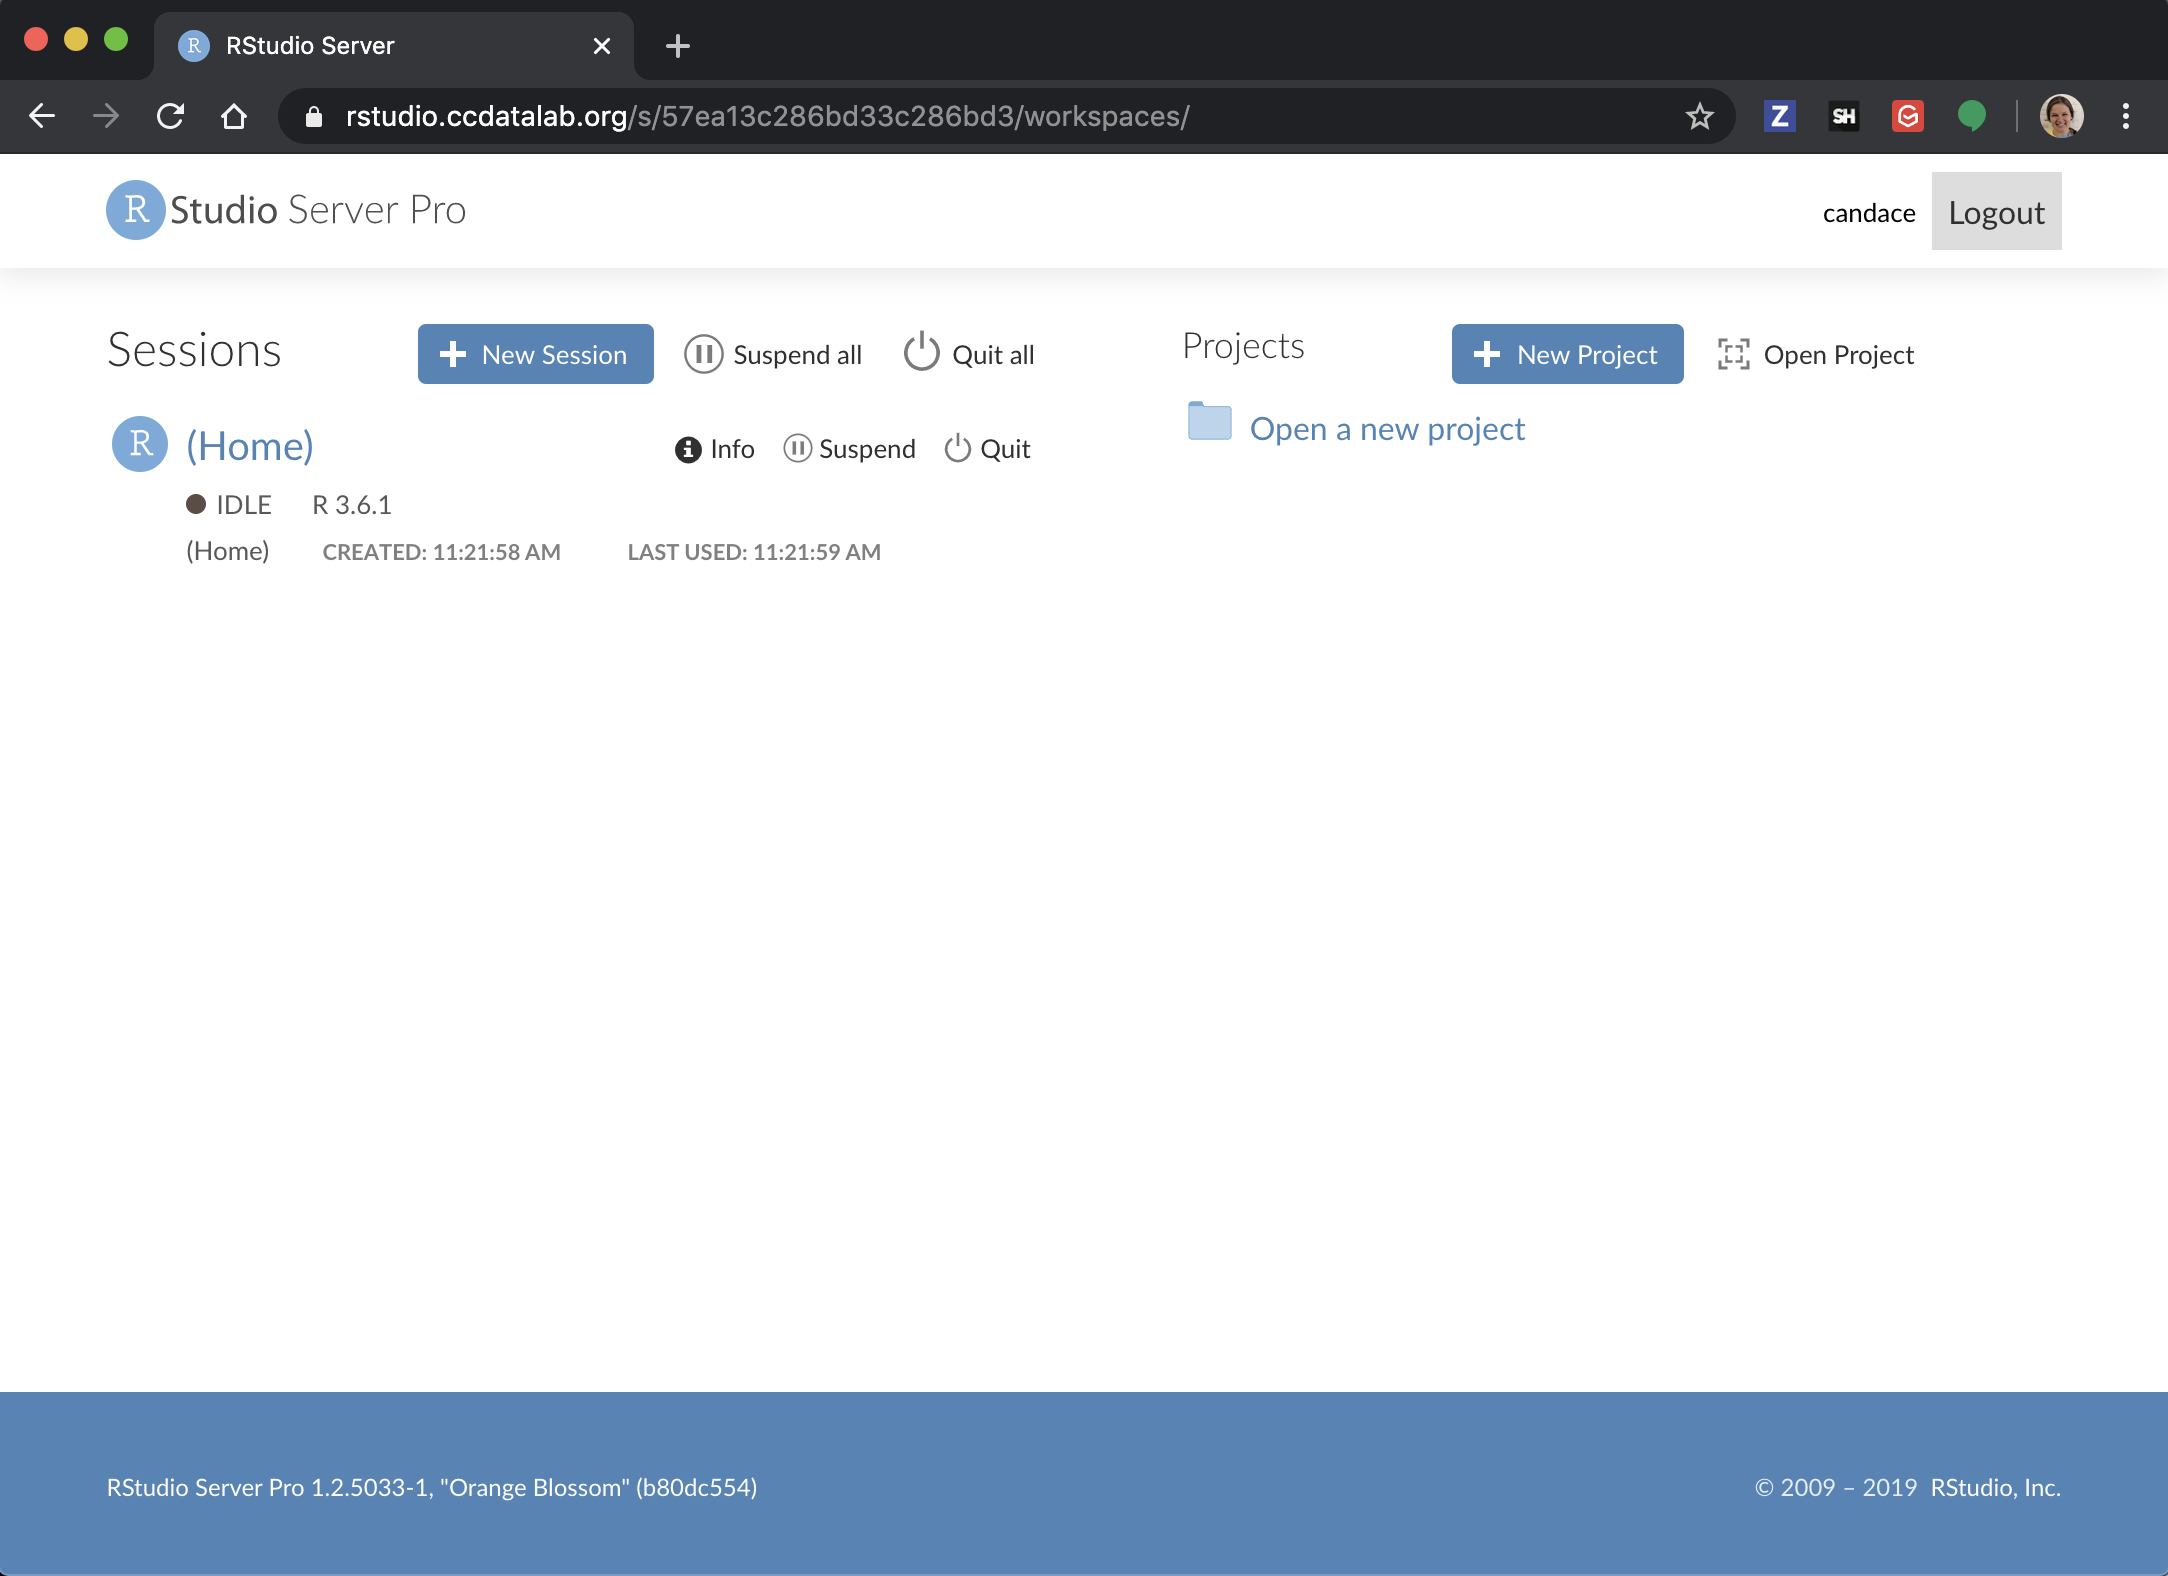
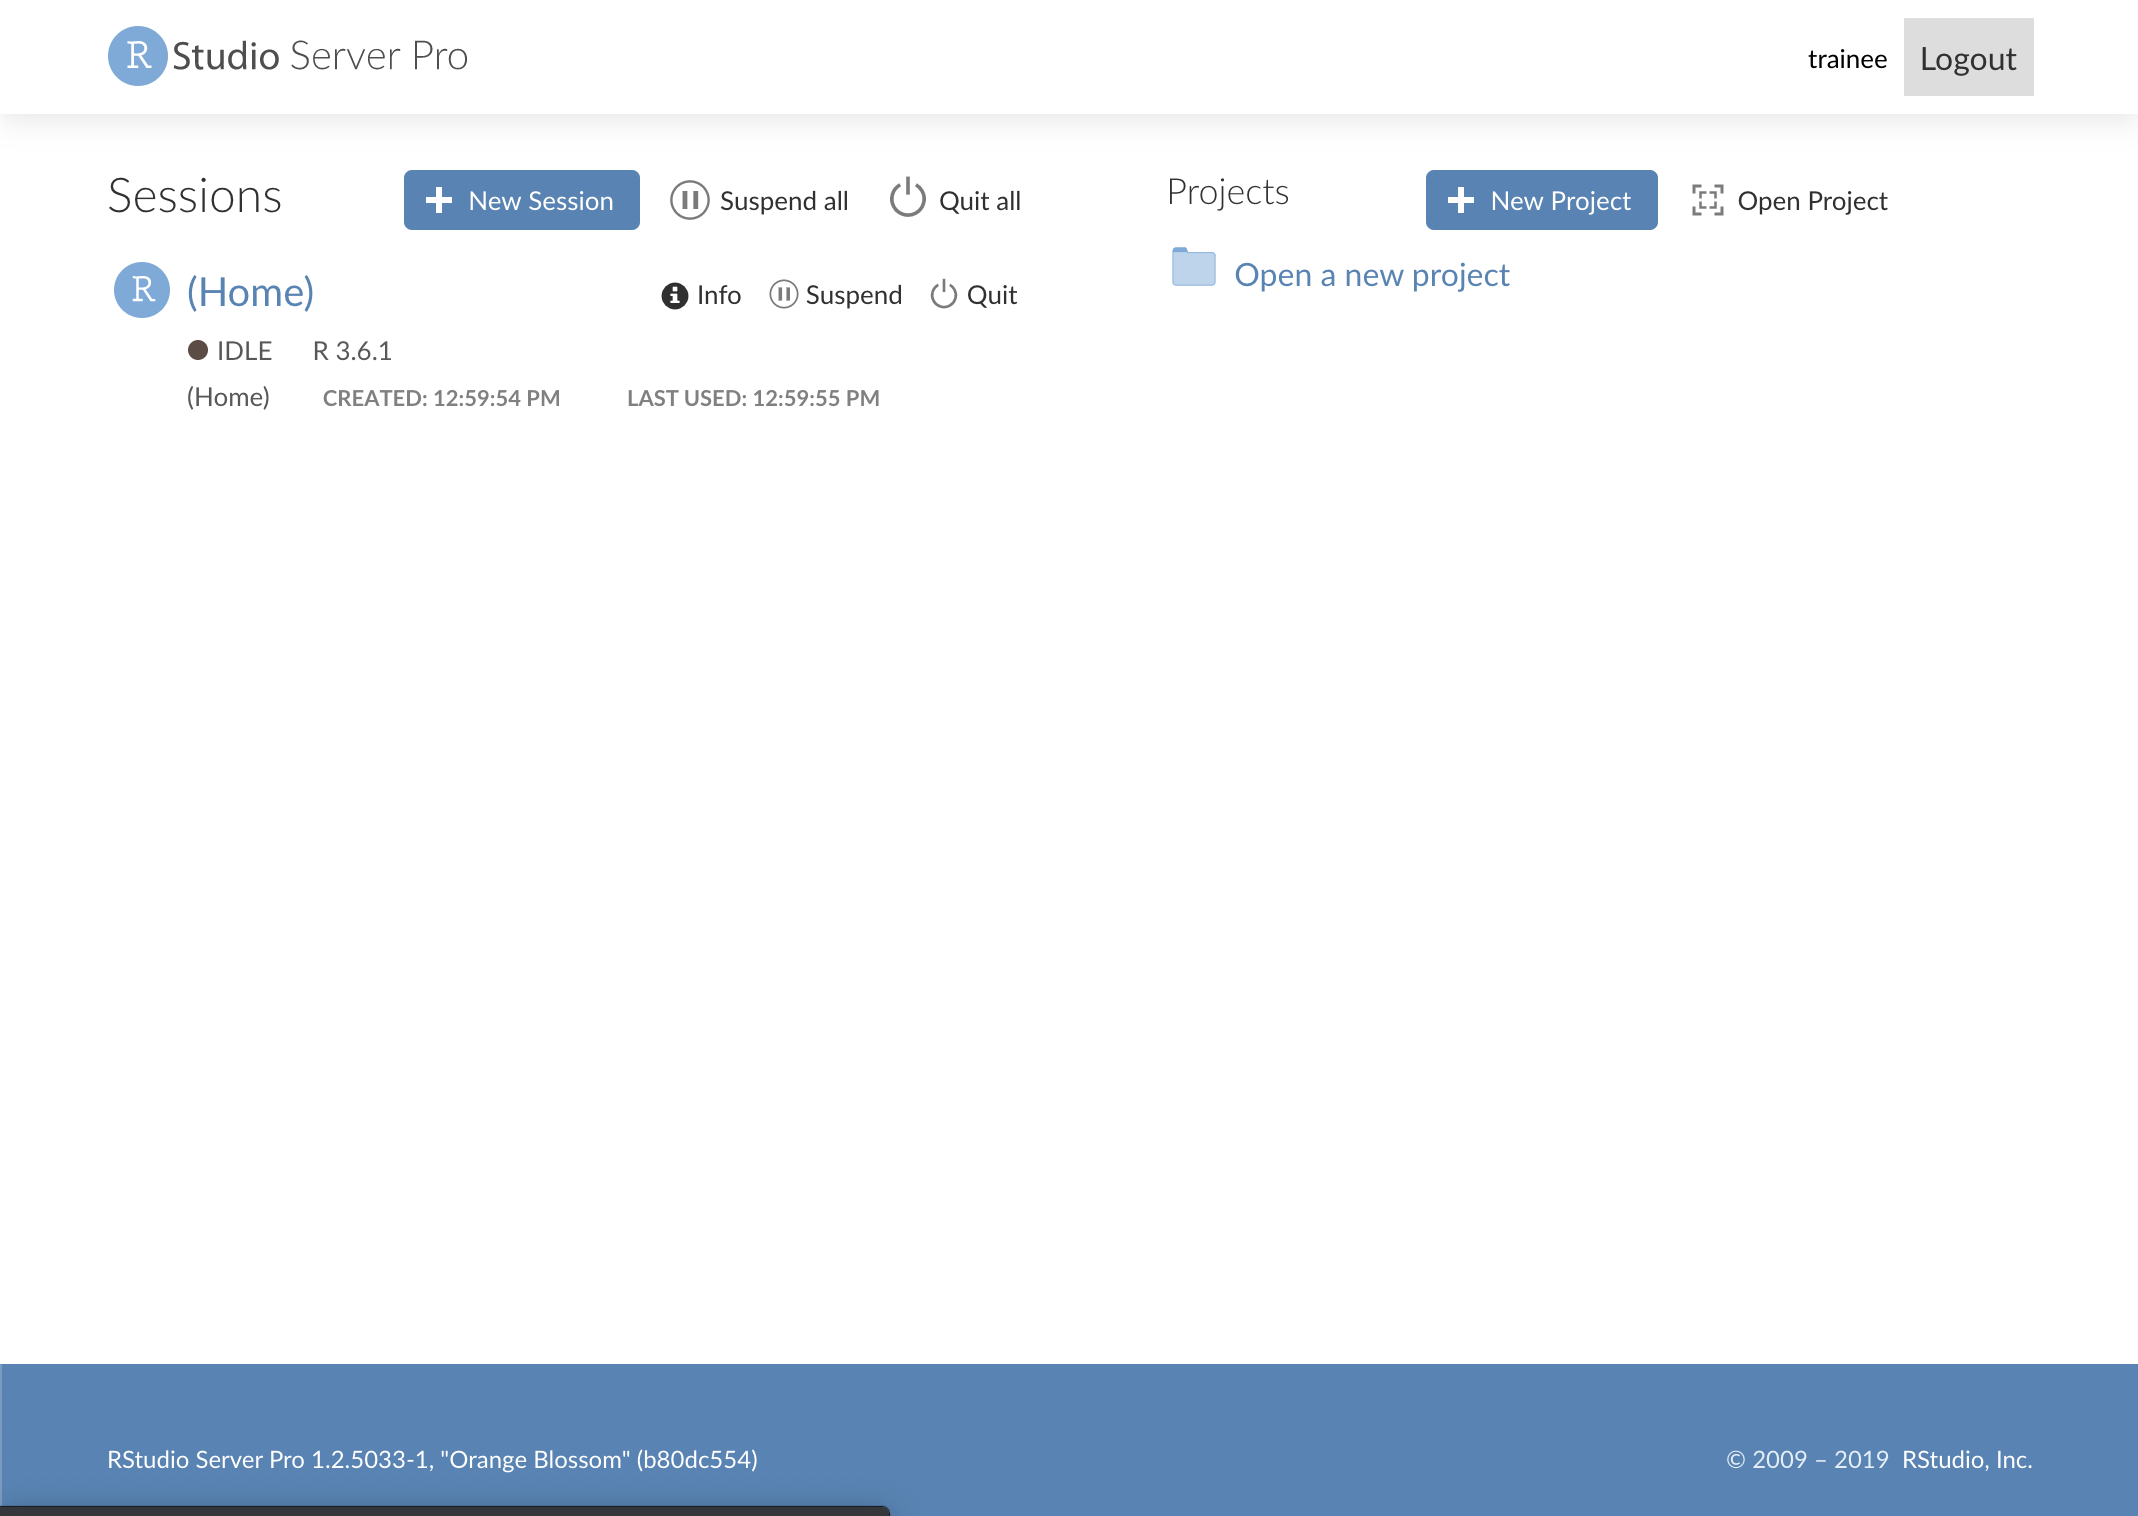
Context is the spice of life. Also add screenshots

diff --git a/virtual-setup/rstudio-login.md b/virtual-setup/rstudio-login.md
@@ -1,55 +1,84 @@
 ## RStudio Server Set Up
 
-We will send you your Username and temporary password by a direct message on Slack, after you are logged in on [Cancer Data Science](http://ccdatalab.org/slack).
+For this training, we've set up a server that hosts RStudio and allows you to run computations more quickly with our machines.
+
+In this tutorial, we will get you set up with our server.
+In upcoming guides and our `intro-to-R-tidyverse` module we will work on becoming more comfortable with R and RStudio for programing.
+RStudio by itself is an [integrated development environment](https://en.wikipedia.org/wiki/Integrated_development_environment) or IDE that makes it easier to program in R.
+
+To give you access to our RStudio server, we will send you a username and temporary password by direct message in Slack, after you are logged in on [Cancer Data Science](http://ccdatalab.org/slack).
 
 Go to https://rstudio.ccdatalab.org and type in your username and temporary password, and click `Sign in`.
 You may want to bookmark https://rstudio.ccdatalab.org for the duration of the workshop.
 
-<img src = "screenshots/rstudio-server-login.png" width = 600>
+<img src = "screenshots/rstudio-server-login.png" width = 500>
 
 Signing in should bring you to the RStudio session page.
 Click on the `Terminal` tab.
 
-<img src = "screenshots/rstudio-session-terminal.png" width = 600>
+<img src = "screenshots/rstudio-session-terminal.png" width = 500>
+<br>
+<br>
 
 Type in the `passwd` command in the `Terminal` tab.
 
 <img src = "screenshots/rstudio-password-change-1.png" width = 400>
+<br>
+<br>
 
-...and press `Enter`. Then type in the password you were given in Slack.
+Press `Enter`. Then type in the password you were given in Slack.
 
 <img src = "screenshots/rstudio-password-change-2.png" width = 400>
+<br>
+<br>
 
 Type in the new password you've chosen once, and press `Enter`, then it will ask you to confirm by typing it in again.
 Also press `Enter`.
 If you forget your password at anytime, Slack on of the CCDL team members to assist you.
 
-## Navigating the RStudio Server
+### RStudio Server workspaces page
 
-In the upper right corner of the session page, you should see these buttons:
+While in a session, in the upper right corner, you should see these buttons:
 
-<img src = "screenshots/rstudio-session-buttons.png" width = 400>
+<img src = "screenshots/rstudio-session-buttons.png" width = 300>
 
-You can restart your R session with the orange, circular, on/off button.
+Clicking on the house button will bring you to the workspaces page.
+On the workspaces page, you will be able to see and manage all your currently running sessions.
+
+<img src = "screenshots/rstudio-workspaces.png" width = 500>
+
+Click on any session to return to it.
+Or, you can start a new session with the `+ Session` button.
+We kindly ask you shut down any sessions you aren't using so we conserve computing power.
+You can do this by clicking the `Quit` button next to any session list.
+
+## Restarting RStudio sessions
+
+Click on a session in the list to return to it.
+If you have no sessions running, use the `+ Sessions` button.
+
+You can stop your current R session with the orange circular on/off button in the upper right corner:
+
+<img src = "screenshots/rstudio-session-buttons.png" width = 300>
+
+Stopping your R Session with the orange button will briefly show you this screen:
+
+<img src = "screenshots/rstudio-session-ended.png" width = 500>
+
+Then re-route you to the workspaces page, where you will the session you were using, no longer listed.
+
+<img src = "screenshots/rstudio-workspaces-empty.png" width = 500>
+
 You will want to do this each time you switch to notebooks, more on this in the
 [RStudio guide instructions](../intro-to-R-tidyverse/00a-rstudio_guide.md).
 
-### About RStudio Server sessions
-
-Clicking on the house button will bring you to the RStudio server workspaces page.
-Here, you will be able to see and manage all your currently running sessions.
-
-<img src = "screenshots/rstudio-workspaces.png" width = 600>
-
-You can start a new Session with the `+ Session` button.
-We kindly ask you shut down any sessions you aren't using so we conserve computing power.
-Click on a Session in the list to return to it.
+## Files on the server
 
 Back on the session page, you are able to see the current files in your `home` directory in the `Files` tab in the lower right panel in your session.
 
-<img src = "screenshots/rstudio-files.png" width = 600>
+<img src = "screenshots/rstudio-files.png" width = 500>
 
-Here, you will find the `training-modules` folder that contains our course materials and the `shared-data` that contains the data we will be using in the modules.
+In your `home` directory, you will find the `training-modules` folder that contains our course materials and the `shared-data` that contains the data we will be using in the modules.
 The files in these folders are accessible in each R session you start.
 Restarting R sessions will refresh what is in your `Environment` tab in the upper right panel.
 We go into more detail on the R environment and other RStudio navigating tidbits in our [guide to RStudio](../intro-to-R-tidyverse/00a-rstudio_guide.md) as well as our [first intro to R notebook](../intro-to-R-tidyverse/01-intro_to_base_R.Rmd).
